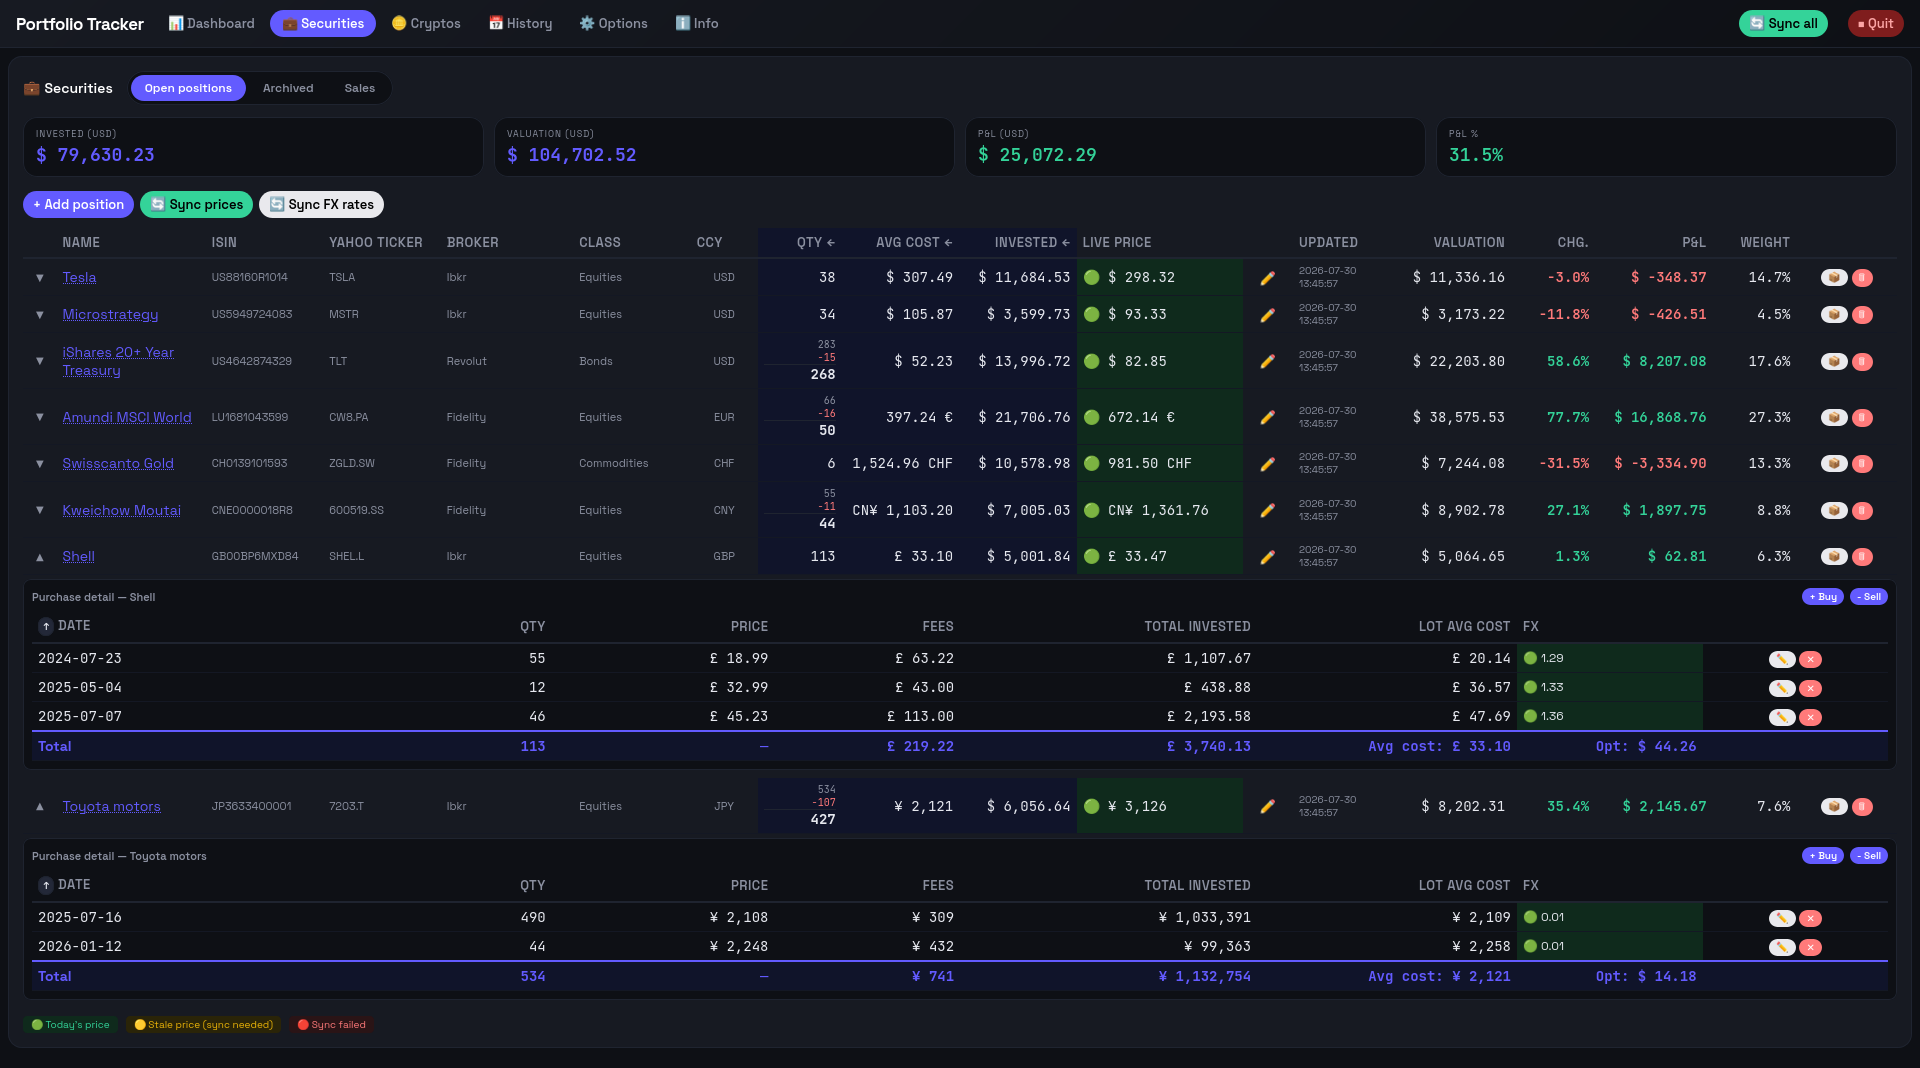
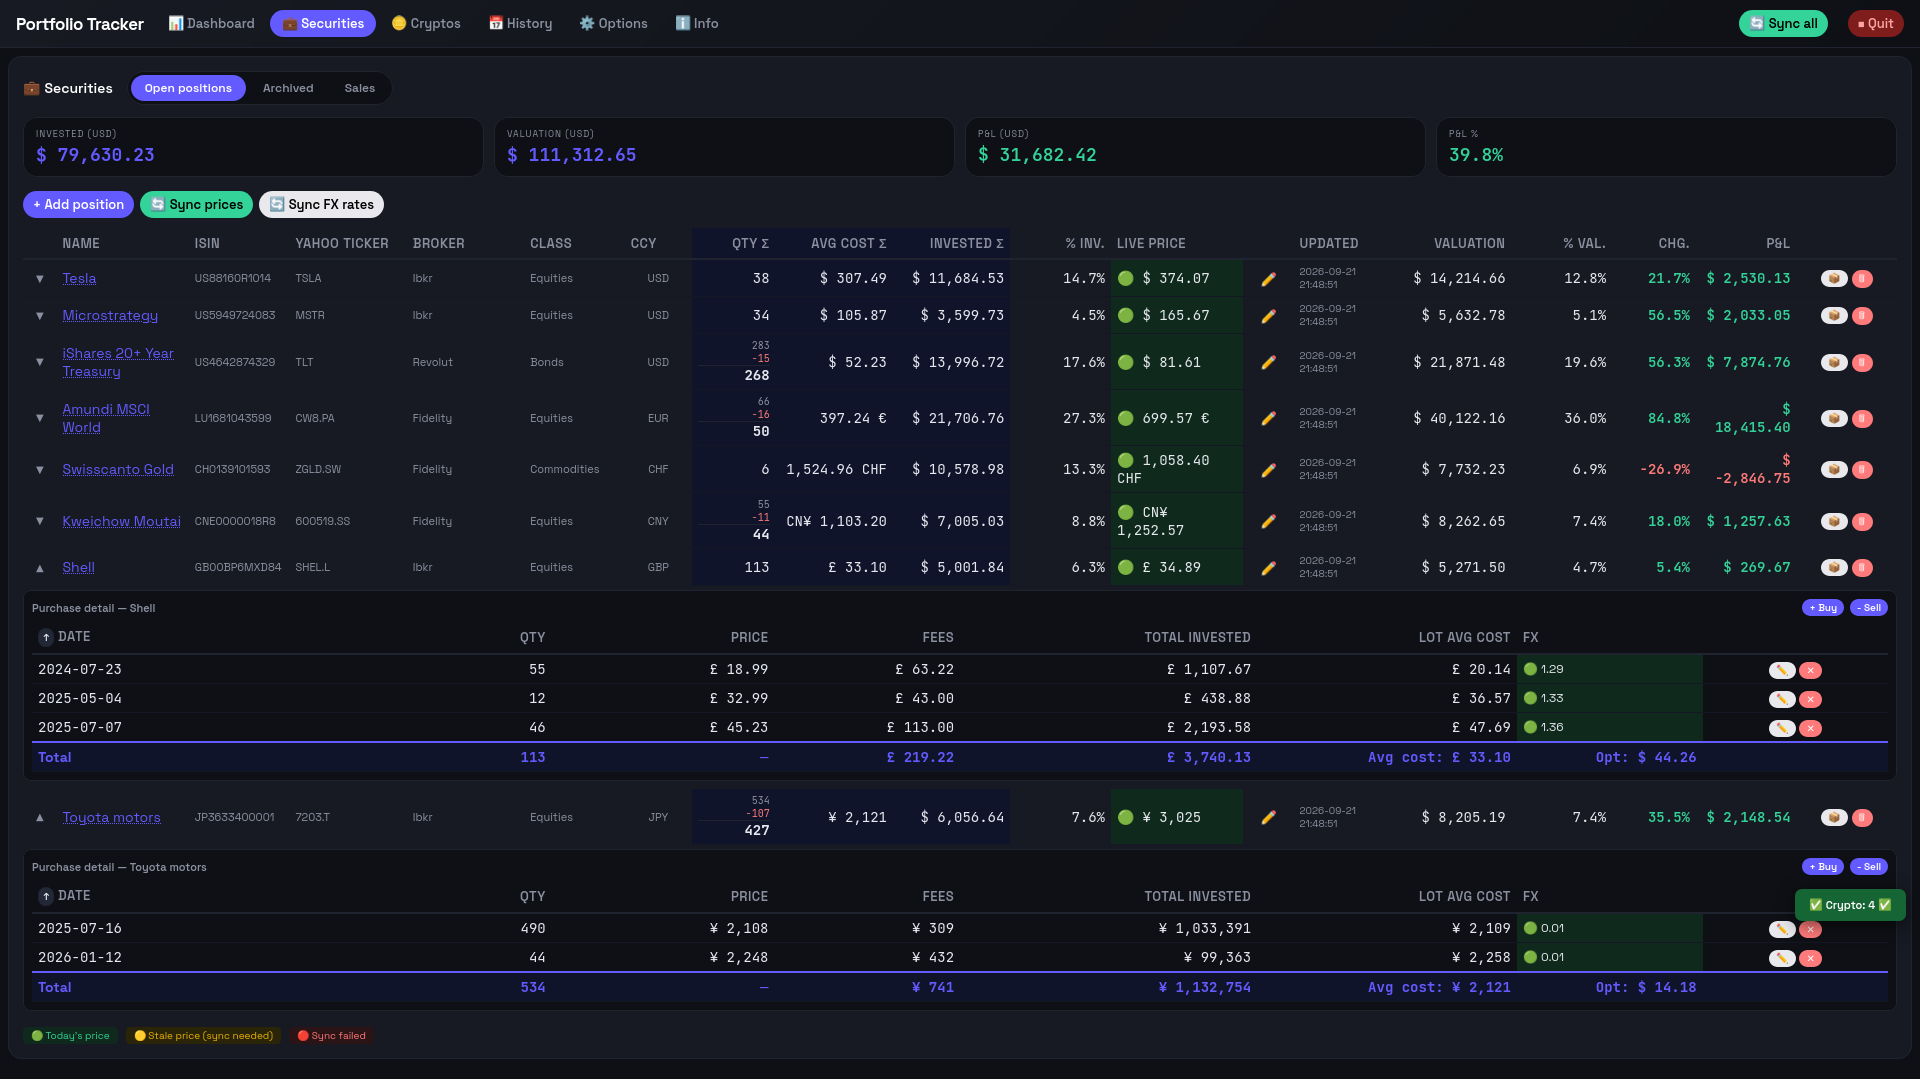
chore: bump v2.1 — docs.html reconvertie depuis la source IPARA (poids % Inv. / % Val., colonnes Σ, CSV), renderInfo, captures d'écran

diff --git a/static/docs.html b/static/docs.html
@@ -257,6 +257,11 @@ li{margin:5px 0}
 <td>Cost basis of the quantity still held, in <strong>Options currency</strong> (converted at each lot's historical FX rate)</td>
 </tr>
 <tr>
+<td>% Inv.</td>
+<td><strong>Computed</strong></td>
+<td>The row's share of the tab's <strong>Invested</strong> KPI</td>
+</tr>
+<tr>
 <td>Live price</td>
 <td>Sync or manual</td>
 <td>Native currency, color based on freshness</td>
@@ -265,6 +270,11 @@ li{margin:5px 0}
 <td>Valuation</td>
 <td><strong>Computed</strong></td>
 <td>Remaining qty × live price, in <strong>Options currency</strong></td>
+</tr>
+<tr>
+<td>% Val.</td>
+<td><strong>Computed</strong></td>
+<td>The row's share of the tab's <strong>Valuation</strong> KPI</td>
 </tr>
 <tr>
 <td>Chg.</td>
@@ -276,15 +286,12 @@ li{margin:5px 0}
 <td><strong>Computed</strong></td>
 <td>Valuation − Invested, in <strong>Options currency</strong></td>
 </tr>
-<tr>
-<td>Weight</td>
-<td><strong>Computed</strong></td>
-<td>% of the tab's total invested</td>
-</tr>
 </tbody>
 </table>
 <blockquote>
-<p>The per-row <strong>Invested</strong>, <strong>Valuation</strong>, <strong>P&amp;L</strong> and <strong>Weight</strong> are expressed in the <strong>Options currency</strong>, not the native currency. Invested is converted at each purchase lot's <em>own historical rate</em> (the rate on the lot's date), while Valuation is converted at today's rate — the same rate-matching logic a broker uses for realized results. Only <strong>Avg cost</strong> and <strong>Live price</strong> stay in the instrument's native currency.</p>
+<p><strong>Σ columns.</strong> The headers <strong>Qty Σ</strong>, <strong>Avg cost Σ</strong> and <strong>Invested Σ</strong> sit on a tinted background: they are aggregated from the position's purchase lots, which appear when you expand the row. Hovering any of the three headers recalls it.</p>
+<p><strong>Two weights, two questions.</strong> <strong>% Inv.</strong> answers <em>where did my capital go?</em> and <strong>% Val.</strong> answers <em>where is my exposure today?</em>. They differ as soon as positions have performed differently: a position bought cheap that has multiplied weighs little in % Inv. but a lot in % Val., and a position in loss the other way round. Each column adds up to 100 % and is the row's share of the KPI shown above the table. A row outside the KPIs' scope (no live price, or a cost basis that can't be computed yet because a purchase-lot FX rate is missing) shows <strong>both</strong> weights blank, even when its valuation is known.</p>
+<p>The per-row <strong>Invested</strong>, <strong>Valuation</strong> and <strong>P&amp;L</strong> are expressed in the <strong>Options currency</strong>, not the native currency. Invested is converted at each purchase lot's <em>own historical rate</em> (the rate on the lot's date), while Valuation is converted at today's rate — the same rate-matching logic a broker uses for realized results. Only <strong>Avg cost</strong> and <strong>Live price</strong> stay in the instrument's native currency.</p>
 </blockquote>
 <h3>Creating and editing — everything through popups</h3>
 <p>The table is <strong>display-only</strong>: there are no editable cells. All entry happens in popups:</p>
@@ -608,7 +615,7 @@ li{margin:5px 0}
 <td><strong>Options currency</strong> (consolidated over open Crypto positions)</td>
 </tr>
 <tr>
-<td>Individual CTO and Crypto rows — Invested / Valuation / P&amp;L / Weight</td>
+<td>Individual CTO and Crypto rows — Invested / Valuation / P&amp;L (and the % Inv. / % Val. weights computed from them)</td>
 <td><strong>Options currency</strong> (invested at each lot's historical rate, valuation at today's rate)</td>
 </tr>
 <tr>
@@ -681,7 +688,7 @@ li{margin:5px 0}
 <td>Converted <strong>per lot at each lot's historical rate</strong></td>
 </tr>
 <tr>
-<td>Per-row Valuation, P&amp;L, Weight (Securities/Crypto)</td>
+<td>Per-row Valuation, P&amp;L, % Inv. / % Val. (Securities/Crypto)</td>
 <td>Options currency</td>
 <td>Valuation at today's rate; invested side at historical rates</td>
 </tr>
@@ -1498,7 +1505,7 @@ row structure, identified by the <code>row_type</code> column:</p>
 <tbody>
 <tr>
 <td><code>position</code></td>
-<td>Position summary row (native WAC, Options-currency cost basis, invested, valuation, P&amp;L, change%, weight%)</td>
+<td>Position summary row (native WAC, Options-currency cost basis, invested, valuation, P&amp;L, change%, invested weight%, valuation weight%)</td>
 </tr>
 <tr>
 <td><code>purchase</code></td>
@@ -1513,16 +1520,18 @@ row structure, identified by the <code>row_type</code> column:</p>
 <blockquote>
 <p><strong>Note:</strong> <code>live_price</code> is rounded to 2 decimal places in the export.</p>
 <p><strong>Quantity and cost-basis columns.</strong> Position rows carry both <code>qty_total</code> (bought) and <code>qty_remaining</code> (still held), the native <code>wac</code>, the Options-currency cost basis <code>wac_base</code> with its <code>wac_base_currency</code>, and <code>invested_remaining</code> (cost basis of the held quantity, in the Options currency). Purchase rows carry <code>purchase_fx_rate</code> and <code>purchase_fx_rate_source</code> (the lot's historical rate).</p>
-<p><strong>Percentage columns:</strong> <code>change_pct</code>, <code>weight_pct</code> and <code>pnl_pct</code> are stored as
+<p><strong>Percentage columns:</strong> <code>change_pct</code>, <code>weight_pct</code>, <code>valuation_weight_pct</code> and <code>pnl_pct</code> are stored as
 percentages (value already multiplied by 100) rounded to <strong>1 decimal place</strong> —
 e.g. <code>45.5</code>, <code>-17.9</code>, <code>25.6</code>. They are not raw ratios.</p>
 </blockquote>
 <p>The columns follow the same left-to-right reading order as the UI: identity
 first, then base amounts (quantity, average cost, invested), then the live
 price, then the consolidated block (valuation, change, P&amp;L, weight), then price
-metadata, and finally the per-lot purchase detail.</p>
+metadata, and finally the per-lot purchase detail. The weight block carries two
+columns: <code>weight_pct</code> (share of the tab's invested total, the <strong>% Inv.</strong> column)
+followed by <code>valuation_weight_pct</code> (share of the tab's valuation total, <strong>% Val.</strong>).</p>
 <h3>Columns per file</h3>
-<p><strong><code>securities_live.csv</code></strong> — 29 columns</p>
+<p><strong><code>securities_live.csv</code></strong> — 30 columns</p>
 <table>
 <thead>
 <tr>
@@ -1609,47 +1618,51 @@ metadata, and finally the per-lot purchase detail.</p>
 </tr>
 <tr>
 <td>20</td>
-<td><code>price_source</code></td>
+<td><code>valuation_weight_pct</code></td>
 </tr>
 <tr>
 <td>21</td>
-<td><code>price_date</code></td>
+<td><code>price_source</code></td>
 </tr>
 <tr>
 <td>22</td>
-<td><code>purchase_date</code></td>
+<td><code>price_date</code></td>
 </tr>
 <tr>
 <td>23</td>
-<td><code>purchase_qty</code></td>
+<td><code>purchase_date</code></td>
 </tr>
 <tr>
 <td>24</td>
-<td><code>purchase_price</code></td>
+<td><code>purchase_qty</code></td>
 </tr>
 <tr>
 <td>25</td>
-<td><code>purchase_fees</code></td>
+<td><code>purchase_price</code></td>
 </tr>
 <tr>
 <td>26</td>
-<td><code>purchase_fx_rate</code></td>
+<td><code>purchase_fees</code></td>
 </tr>
 <tr>
 <td>27</td>
-<td><code>purchase_fx_rate_source</code></td>
+<td><code>purchase_fx_rate</code></td>
 </tr>
 <tr>
 <td>28</td>
-<td><code>purchase_total_invested</code></td>
+<td><code>purchase_fx_rate_source</code></td>
 </tr>
 <tr>
 <td>29</td>
+<td><code>purchase_total_invested</code></td>
+</tr>
+<tr>
+<td>30</td>
 <td><code>purchase_lot_avg_cost</code></td>
 </tr>
 </tbody>
 </table>
-<p><strong><code>cryptos_live.csv</code></strong> — 26 columns</p>
+<p><strong><code>cryptos_live.csv</code></strong> — 27 columns</p>
 <table>
 <thead>
 <tr>
@@ -1724,42 +1737,46 @@ metadata, and finally the per-lot purchase detail.</p>
 </tr>
 <tr>
 <td>17</td>
-<td><code>price_source</code></td>
+<td><code>valuation_weight_pct</code></td>
 </tr>
 <tr>
 <td>18</td>
-<td><code>price_date</code></td>
+<td><code>price_source</code></td>
 </tr>
 <tr>
 <td>19</td>
-<td><code>purchase_date</code></td>
+<td><code>price_date</code></td>
 </tr>
 <tr>
 <td>20</td>
-<td><code>purchase_qty</code></td>
+<td><code>purchase_date</code></td>
 </tr>
 <tr>
 <td>21</td>
-<td><code>purchase_price</code></td>
+<td><code>purchase_qty</code></td>
 </tr>
 <tr>
 <td>22</td>
-<td><code>purchase_fees</code></td>
+<td><code>purchase_price</code></td>
 </tr>
 <tr>
 <td>23</td>
-<td><code>purchase_fx_rate</code></td>
+<td><code>purchase_fees</code></td>
 </tr>
 <tr>
 <td>24</td>
-<td><code>purchase_fx_rate_source</code></td>
+<td><code>purchase_fx_rate</code></td>
 </tr>
 <tr>
 <td>25</td>
-<td><code>purchase_total_invested</code></td>
+<td><code>purchase_fx_rate_source</code></td>
 </tr>
 <tr>
 <td>26</td>
+<td><code>purchase_total_invested</code></td>
+</tr>
+<tr>
+<td>27</td>
 <td><code>purchase_lot_avg_cost</code></td>
 </tr>
 </tbody>
@@ -2080,10 +2097,10 @@ FX rate and dated cost basis are both available.</p>
 <h2>16. Info tab</h2>
 <p>A short reference card: version and release date, author, the GitHub repository and the license. The <strong>📖 Documentation</strong> button opens this documentation in a new browser tab.</p>
 <hr />
-<p><em>Portfolio Tracker v2.0 — July 2026</em></p>
+<p><em>Portfolio Tracker v2.1 — September 2026</em></p>
 <hr>
 
-<p style="font-size:13px;color:#9ca3af;text-align:center;margin-top:40px">Portfolio Tracker v2.0 — 2026/07/30</p>
+<p style="font-size:13px;color:#9ca3af;text-align:center;margin-top:40px">Portfolio Tracker v2.1 — 2026/09/21</p>
 
 </div>
 </body>

diff --git a/static/app.js b/static/app.js
@@ -805,8 +805,8 @@ function renderOptions(){
 function renderInfo(){
   return`<div class="card">
     <div style="display:flex;flex-direction:column;gap:6px;font-size:13px;margin-bottom:28px">
-      <div><span style="color:var(--text2);min-width:120px;display:inline-block">Version</span><span>v2.0</span></div>
-      <div><span style="color:var(--text2);min-width:120px;display:inline-block">Date</span><span>2026/07/30</span></div>
+      <div><span style="color:var(--text2);min-width:120px;display:inline-block">Version</span><span>v2.1</span></div>
+      <div><span style="color:var(--text2);min-width:120px;display:inline-block">Date</span><span>2026/09/21</span></div>
       <div><span style="color:var(--text2);min-width:120px;display:inline-block">Author</span><span>CarpeDiem</span></div>
       <div><span style="color:var(--text2);min-width:120px;display:inline-block">GitHub</span><span><a href="https://github.com/carpediem-tools/portfolio-tracker" target="_blank">carpediem-tools/portfolio-tracker</a></span></div>
       <div><span style="color:var(--text2);min-width:120px;display:inline-block">License</span><span>MIT</span></div>
